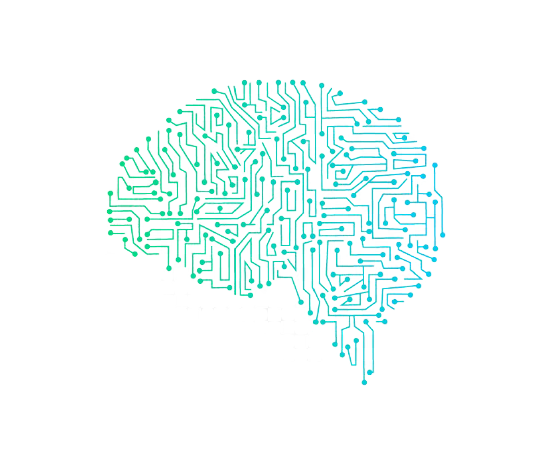
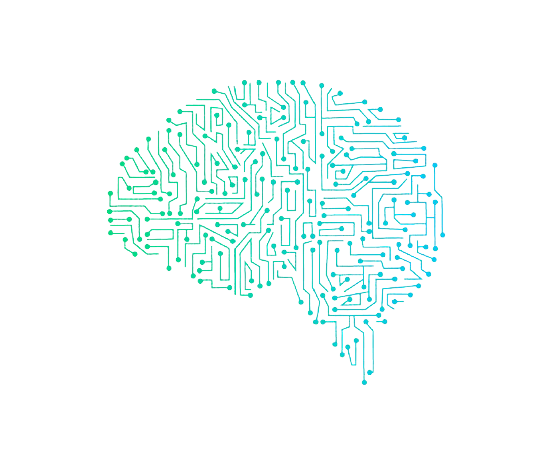
Ok con de

Changed region(s): [[0.1858, 0.1846, 0.8051, 0.8308]]

diff --git a/index.html b/index.html
@@ -10,6 +10,7 @@
     <link rel="stylesheet" href="css/main.css">
     <link href="https://fonts.googleapis.com/css?family=Open+Sans" rel="stylesheet">
     <link href="https://cdn.jsdelivr.net/npm/bootstrap@5.1.1/dist/css/bootstrap.min.css" rel="stylesheet" integrity="sha384-F3w7mX95PdgyTmZZMECAngseQB83DfGTowi0iMjiWaeVhAn4FJkqJByhZMI3AhiU" crossorigin="anonymous">
+    <link rel="stylesheet" href="https://stackpath.bootstrapcdn.com/bootstrap/4.1.3/css/bootstrap.min.css" integrity="sha384-MCw98/SFnGE8fJT3GXwEOngsV7Zt27NXFoaoApmYm81iuXoPkFOJwJ8ERdknLPMO" crossorigin="anonymous">
     <script src="https://cdn.jsdelivr.net/npm/bootstrap@5.1.1/dist/js/bootstrap.bundle.min.js" integrity="sha384-/bQdsTh/da6pkI1MST/rWKFNjaCP5gBSY4sEBT38Q/9RBh9AH40zEOg7Hlq2THRZ" crossorigin="anonymous"></script>
     <script src="https://ajax.googleapis.com/ajax/libs/jquery/3.6.0/jquery.min.js"></script>
 
@@ -59,12 +60,25 @@
     </div>
 
     <!-- Ảnh brain-->
-    <div id="ring">
+    <div id="rang">
         <image id="brain" src="./assets/brain.png"/>
-        <image id="state-jump" src="./assets/Jumping.png"/>
-        <image id="state-run" src="./assets/Running.png"/>
+        <image id="state-jump" src="./assets/jumping.png"/>
+        <image id="state-run" src="./assets/running.png"/>
+        <image id="state-dead" src="./assets/inflection.png"/>
     </div>
 
+    <div>
+        <image class="btn btn-primary" data-toggle="collapse" data-target="#collapseExample" id="account" src="./assets/account.png" role="button"/>
+        <div class="collapse" id="collapseExample">
+        <div class="card card-body">
+            THÔNG TIN TÀI KHOẢN!
+        </div>
+        </div>
+    </div>
+
+    <script src="https://code.jquery.com/jquery-3.3.1.slim.min.js" integrity="sha384-q8i/X+965DzO0rT7abK41JStQIAqVgRVzpbzo5smXKp4YfRvH+8abtTE1Pi6jizo" crossorigin="anonymous"></script>
+    <script src="https://cdnjs.cloudflare.com/ajax/libs/popper.js/1.14.3/umd/popper.min.js" integrity="sha384-ZMP7rVo3mIykV+2+9J3UJ46jBk0WLaUAdn689aCwoqbBJiSnjAK/l8WvCWPIPm49" crossorigin="anonymous"></script>
+    <script src="https://stackpath.bootstrapcdn.com/bootstrap/4.1.3/js/bootstrap.min.js" integrity="sha384-ChfqqxuZUCnJSK3+MXmPNIyE6ZbWh2IMqE241rYiqJxyMiZ6OW/JmZQ5stwEULTy" crossorigin="anonymous"></script>
     <script src="js/utils.js"></script>
     <script src="js/game.js"></script>
     <script src="https://cdn.jsdelivr.net/npm/@tensorflow/tfjs@1.3.1/dist/tf.min.js"></script>

diff --git a/css/style.css b/css/style.css
@@ -28,41 +28,67 @@
 
 img#playTogether {
   position: absolute;
-  width: 40%;
-  height: 40%;
-  background-size: cover;
-  left: -20px;
-  bottom: 25px;
+  width: 423px;
+  height: 174px;
+  left: 63px;
+  top: 368px;
+  bottom: 522px;
+  background-size: contain;
 }
 
 #brain {
   position: absolute;
-  width: 20%;
-  height: 27%;
+  width: 270px;
+  height: 190px;
+  left: 38x;
+  top: 25px;
+  bottom: 195px;
   background-size: contain;
-  top: 20px;
-  left: 17px;
-  rotate: 90;
+  transform: rotate(360deg);
 }
 
 #state-jump {
+  position: absolute;
+  width: 200px;
+  height: 100px;
+  left: 210px;
+  top: 62px;
+  bottom: 34px;
   display: block;
   animation: shake 0.5s infinite;
-  position: absolute;
-  width: 10%;
-  height: 10%;
-  background-size: cover;
-  top: 20px;
-  left: 250px;
+  background-size: contain;
 }
 
 #state-run {
+  position: absolute;
+  width: 250px;
+  height: 150px;
+  left: 210px;
+  top: 62px;
+  bottom: 34px;
   display: block;
   animation: shake 0.5s infinite;
+  background-size: contain;
+}
+
+#state-dead {
+  display: none;
   position: absolute;
-  width: 10%;
-  height: 10%;
-  background-size: cover;
-  top: 70px;
-  left: 250px;
+  width: 200px;
+  height: 100px;
+  left: 215px;
+  top: 62px;
+  bottom: 34px;
+  animation: shake 0.5s infinite;
+}
+
+#account {
+  position: absolute;
+  width: 60px;
+  height: 50px;
+  left: 1280px;
+  top: 17px;
+  bottom: 66px;
+  display: block;
+  cursor: pointer;
 }

diff --git a/js/main.js b/js/main.js
@@ -21,18 +21,45 @@ btnPlay.addEventListener("click", () => {
   btnPlay.disabled = true;
 });
 
+// Hiệu ứng đám mây
 async function ring(state) {
   let run = await document.querySelector('img#state-run');
   let jump = await document.querySelector('img#state-jump');
+  let dead = await document.querySelector('img#state-dead');
 
-  if (state == 1) {
+  // Chưa chơi
+  if (state == 0) {
+    jump.style.display = 'none';
+    run.style.display = 'none';
+    dead.style.display = 'none';
+  }
+  // Đang nhảy
+  else if (state == 1) {
     jump.style.display = 'block';
     run.style.display = 'none';
   }
-  else {
+  // Đang chạy
+  else if (state == 2) {
     jump.style.display = 'none';
     run.style.display = 'block';
   }
+  // Đang chết
+  else {
+    jump.style.display = 'none';
+    run.style.display = 'none';
+    dead.style.display = 'block';
+  }
+
+}
+ring(2);
+
+function account_info() {
+  alert('Hello !');
 }
 
-ring(0);
+// async function account() {
+//   let loc_account = await document.getElementByIdt('account');
+//   if (loc_account.onclick == true) {
+//     account_info();
+//   }
+// }
